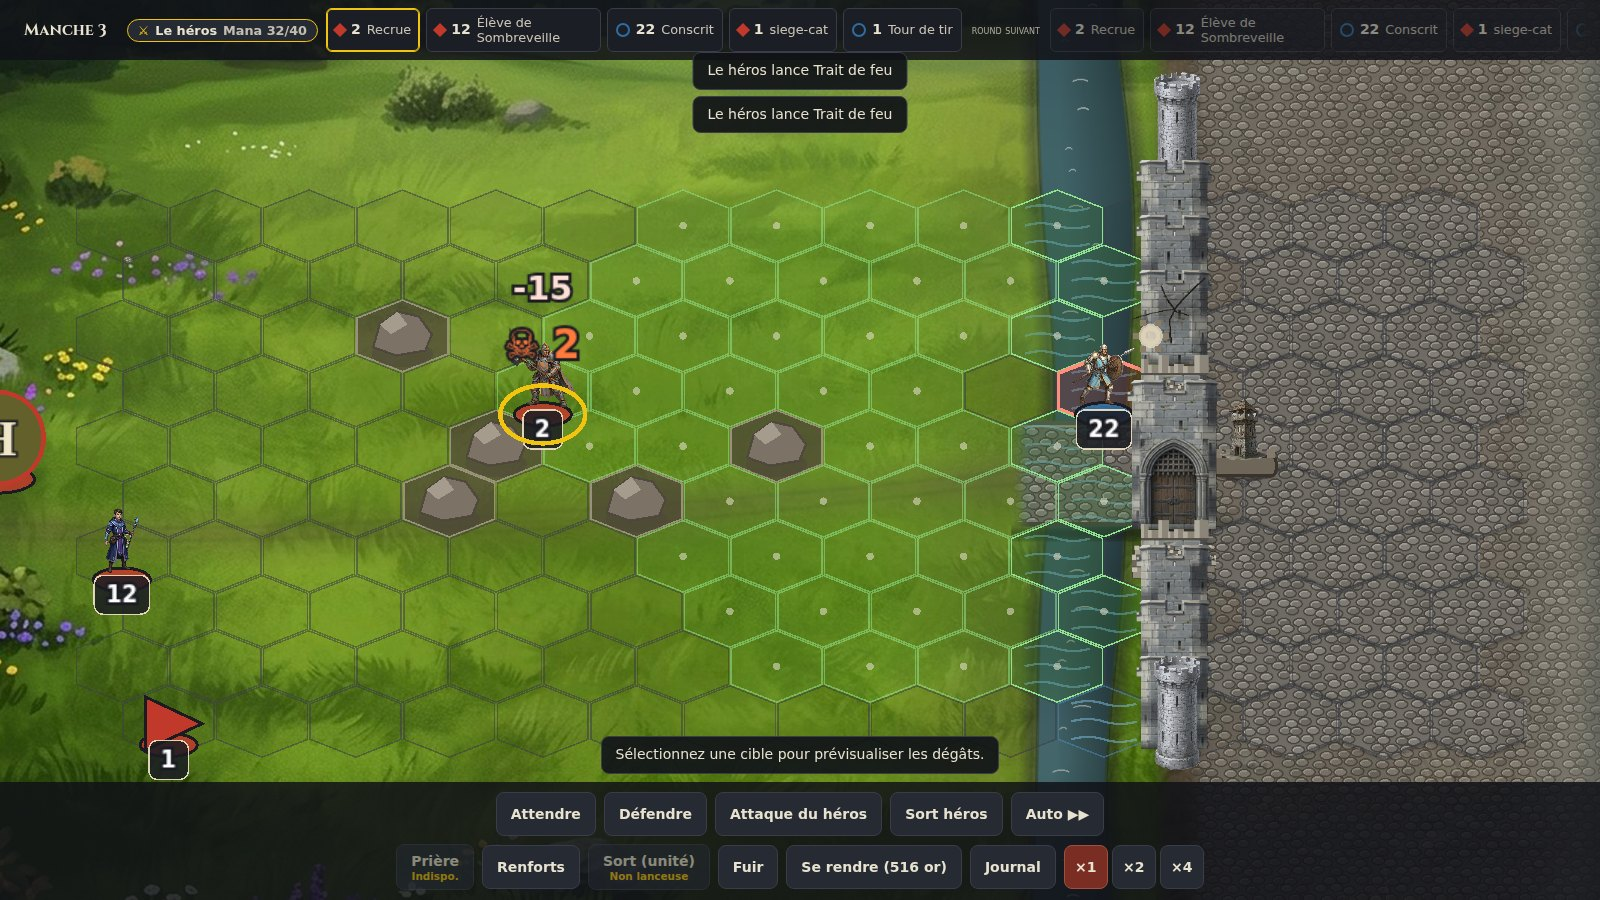
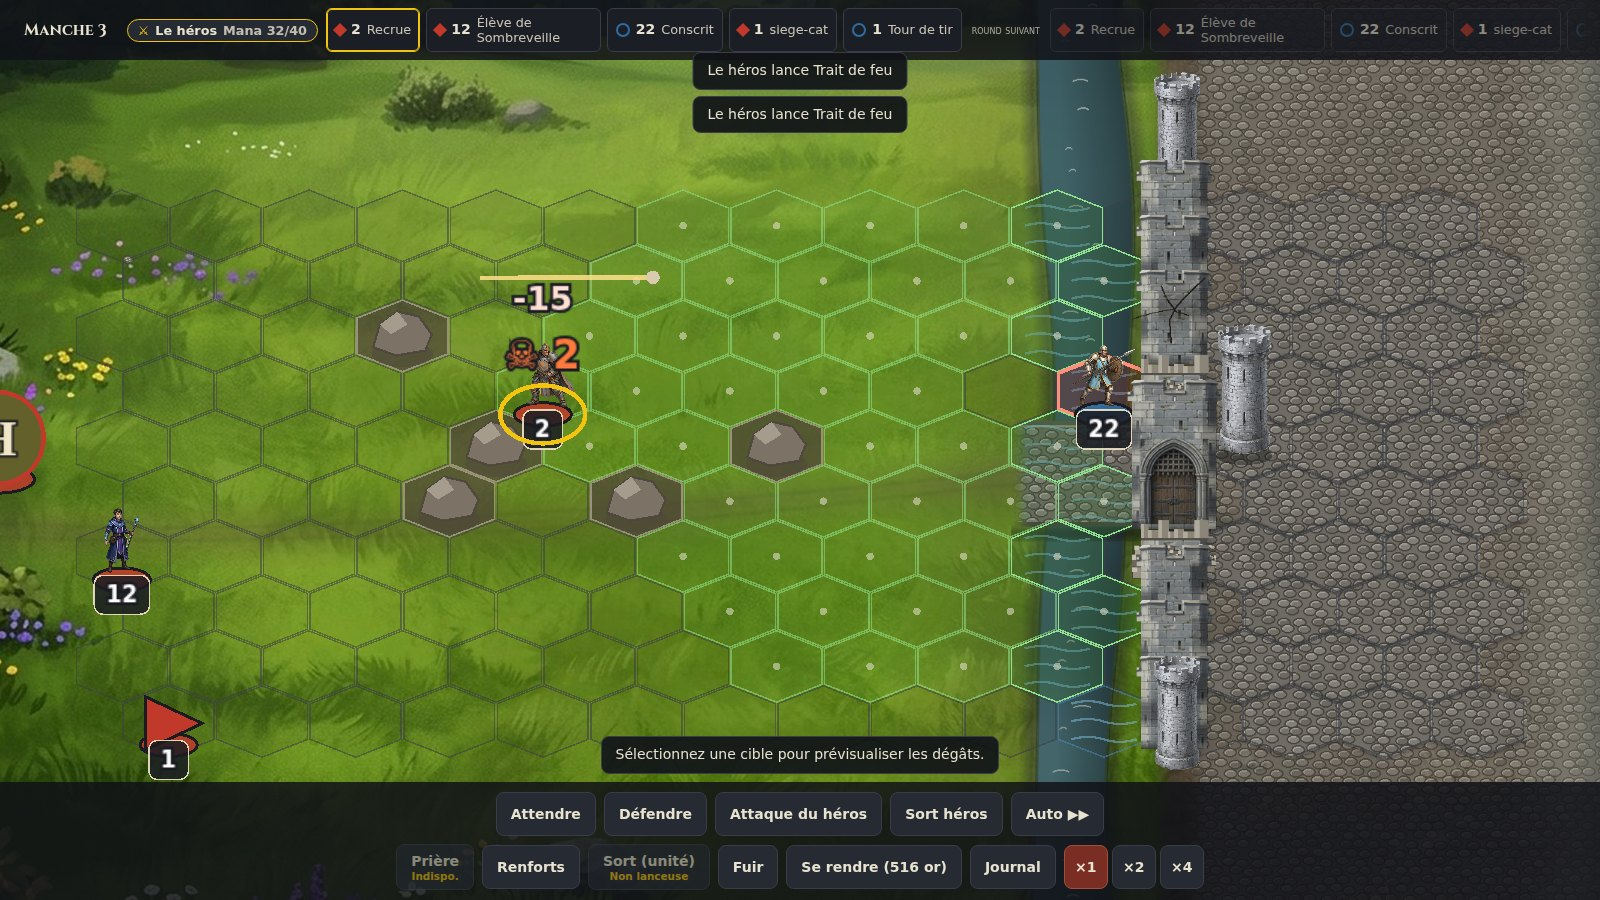
Siège : tour de tir cohérente avec l'enceinte (pierre grise, plein pied)
Retour porteur (itération 4 sur PR #490) : en mode scène, la tour de tir
n'est plus un jeton-tourelle crème minuscule — elle est rendue avec le
sprite de tour pierre grise de la muraille, plantée à sa base et plus
haute que la courtine (86 bp, échelle des tours d'extrémité), avec une
ombre de contact au sol. Hors scène : rendu structure historique inchangé.
Habillage pur : ciblage, stats et règles de la tour intacts.

Lint/typecheck verts, smoke siège vert, captures rafraîchies.

Claude-Session: https://claude.ai/code/session_01JCpMePDa57rjX2ZTTekusS

Changed region(s): [[0.6562, 0.3422, 0.8125, 0.5289], [0.3125, 0.28, 0.4062, 0.4356]]

diff --git a/packages/client/src/scenes/combat/CombatScene.ts b/packages/client/src/scenes/combat/CombatScene.ts
@@ -101,6 +101,9 @@ const SHAKE_MS = 120;
 const ISO_WALL_LEAN = HEX_SIZE * 1.5;
 const ISO_WALL_FAR = 0.82;
 const ISO_WALL_NEAR = 1.12;
+// Tour de tir en mode scène : hauteur affichée (board px) — domine la courtine
+// (dont la face culmine ~62 bp), cohérente avec les tours d'extrémité (76 bp).
+const STRUCTURE_TOWER_H = HEX_SIZE * 2.4;
 
 const MARGIN_TOP = 96; // bandeau armées + round (doc 08 §2.4)
 // S9.4 : marge basse élargie — la barre d'actions peut passer à 2 rangées et le
@@ -889,7 +892,18 @@ export class CombatScene {
     const isSiegeStructure = side === 'defender' && hasAbility('warMachine') && hasAbility('immobile');
 
     if (isSiegeStructure) {
-      token.addChild(buildStructureBase());
+      // Mode scène : la vraie tour (sprite pierre grise plein pied) est plantée
+      // par une OMBRE de contact au sol — le socle procédural ne sert qu'au
+      // repli hors scène.
+      if (this.sceneActive) {
+        token.addChild(
+          new Graphics()
+            .ellipse(0, HEX_SIZE * 0.18, HEX_SIZE * 0.52, HEX_SIZE * 0.17)
+            .fill({ color: 0x12120e, alpha: 0.42 }),
+        );
+      } else {
+        token.addChild(buildStructureBase());
+      }
     } else {
       // Base de camp (ellipse au sol) : distingue attaquant/défenseur.
       token.addChild(
@@ -923,16 +937,27 @@ export class CombatScene {
     const fallback = isSiegeStructure ? buildStructureGraphic() : buildStackTokenGraphic(side);
     visual.addChild(fallback);
 
-    const url = unitSpriteUrl(stack.unitId, catalog[stack.unitId]?.groupId);
+    // Tour de tir en mode SCÈNE (retour porteur) : le jeton-tourelle crème
+    // jurait avec l'enceinte et restait minuscule. On pose la tour PIERRE
+    // GRISE de la muraille (même famille que les tours d'extrémité), plantée
+    // à sa base et PLUS HAUTE que la courtine — une défense de ville, pas une
+    // créature. Hors scène : rendu structure historique inchangé.
+    const sceneTower = isSiegeStructure && this.sceneActive;
+    const url = (sceneTower ? siegeSceneTowerUrl() : undefined) ?? unitSpriteUrl(stack.unitId, catalog[stack.unitId]?.groupId);
     if (url) {
       void Assets.load(url).then((texture) => {
         if (this.destroyed || token.destroyed) return;
         visual.removeChild(fallback);
         fallback.destroy();
         const sprite = new Sprite(texture);
-        sprite.anchor.set(0.5, 0.72); // pieds posés sur la base
-        const scale = (TOKEN_RADIUS * 2.4) / Math.max(texture.width, texture.height);
-        sprite.scale.set(scale);
+        if (sceneTower) {
+          sprite.anchor.set(0.5, 0.94); // assise au sol de l'hex
+          sprite.scale.set(STRUCTURE_TOWER_H / texture.height);
+        } else {
+          sprite.anchor.set(0.5, 0.72); // pieds posés sur la base
+          const scale = (TOKEN_RADIUS * 2.4) / Math.max(texture.width, texture.height);
+          sprite.scale.set(scale);
+        }
         visual.addChild(sprite);
       });
     }

diff --git a/.claude/plans/siege-visual-overhaul.md b/.claude/plans/siege-visual-overhaul.md
@@ -179,3 +179,10 @@ y compris plaine, validable en 1 capture) ; **Lot 1** = scène peinte génériqu
   face, 72 bp de large), z entre les 2 rangées d'ouverture (une unité entre
   dans le tunnel par le nord, en ressort par le sud) ; ombre de contact
   resserrée. Repli = art frontal si la pièce manque.
+- 2026-07-19 — Retour porteur (itération 4) : « la tour derrière la porte
+  n'est pas cohérente avec le mur et bien trop petite ». En mode scène, la
+  tour de tir (structure S6) est rendue avec le sprite de TOUR PIERRE GRISE
+  de la muraille (`siegeSceneTowerUrl`), plantée à sa base (ancre 0.94) à
+  **86 bp** (elle domine la courtine, échelle des tours d'extrémité) + ombre
+  de contact au sol. Hors scène : rendu structure historique inchangé
+  (socle + arrow-tower). Zéro moteur (habillage pur, ciblage/stats intacts).